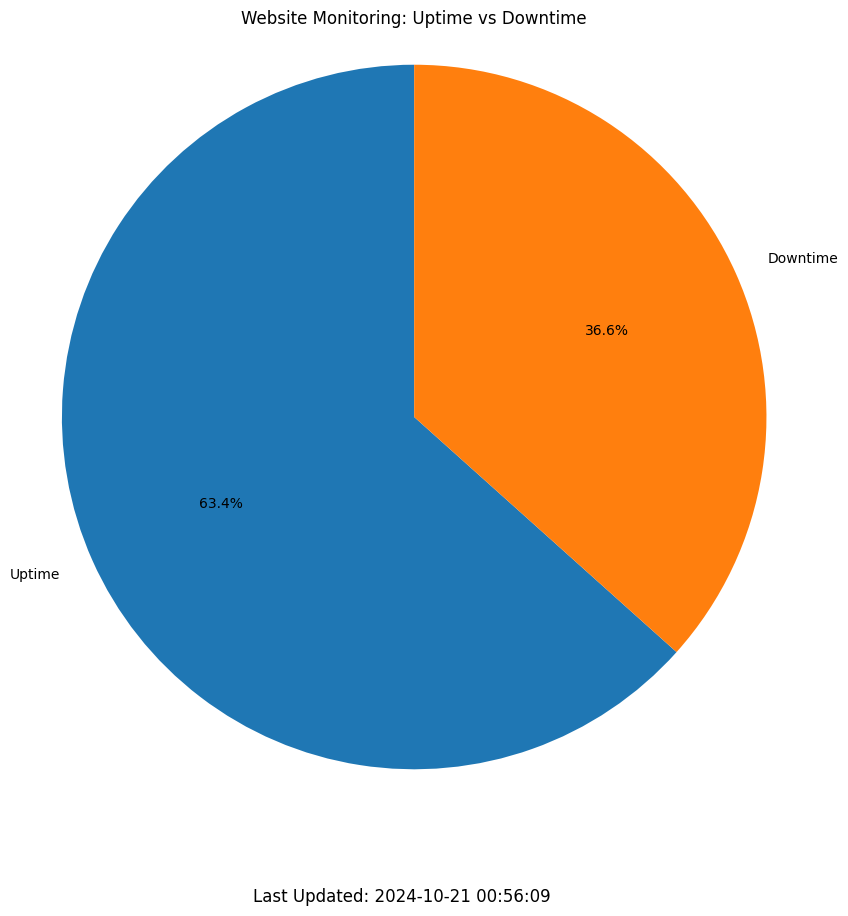
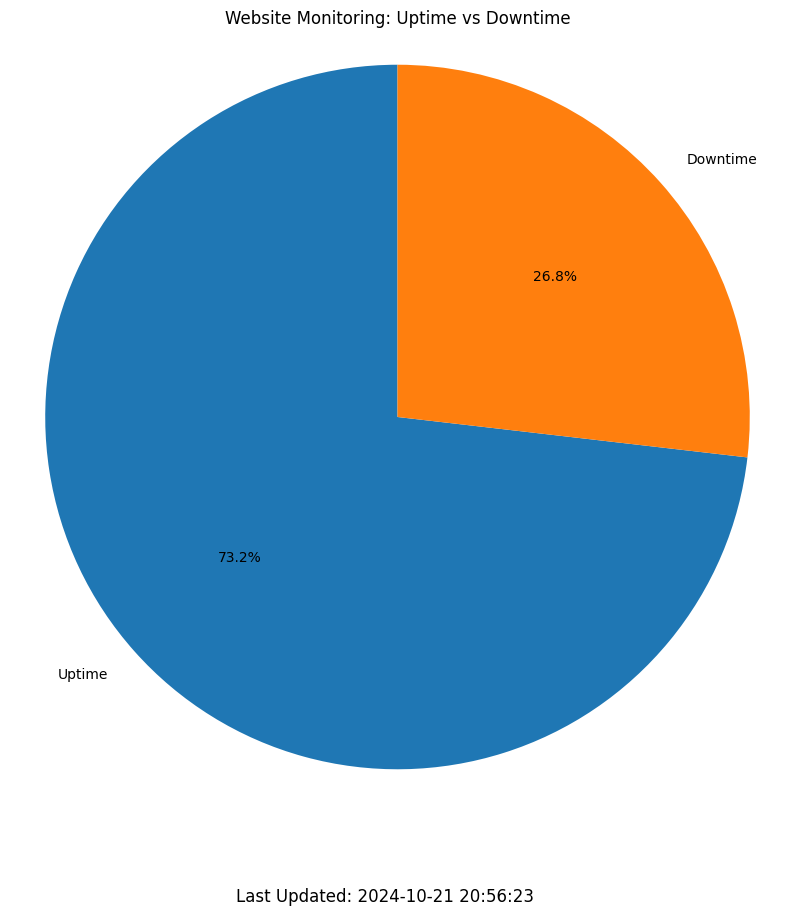
replaced "schedule" lib with asyncio

diff --git a/graph.py b/graph.py
@@ -1,11 +1,11 @@
 import gspread
 from datetime import timedelta, datetime
 import matplotlib.pyplot as plt
-import schedule
-import time
+import asyncio
 
-gc = gspread.service_account(filename="/home/jasjitbanisa/WEBSIEBTESJRGHSEGHJ/credentials.json")
-def update_graph():
+gc = gspread.service_account(filename="credentials.json")
+
+async def update_graph():
     total_downtime = timedelta()  
 
     spreadsheet = gc.open("Website Monitoring")
@@ -38,13 +38,16 @@ def update_graph():
     plt.title("Website Monitoring: Uptime vs Downtime")
     last_updated = datetime.now().strftime("%Y-%m-%d %H:%M:%S")
     plt.figtext(0.5, 0.01, f"Last Updated: {last_updated}", ha='center', fontsize=12)
-    absolute_path = "/home/jasjitbansia/Website-Monitoring-Front-End/static/images/graph.png"
+    absolute_path = "static\images\graph.png"
     plt.savefig(absolute_path, bbox_inches='tight')
-    plt.close()  
+    plt.close()
 
-schedule.every(15).seconds.do(update_graph)
-while True:
-    schedule.run_pending()
-    time.sleep(1)
+async def scheduler():
+    while True:
+        await update_graph()
+        await asyncio.sleep(15)  
 
+async def main():
+    await scheduler()
 
+asyncio.run(main())
